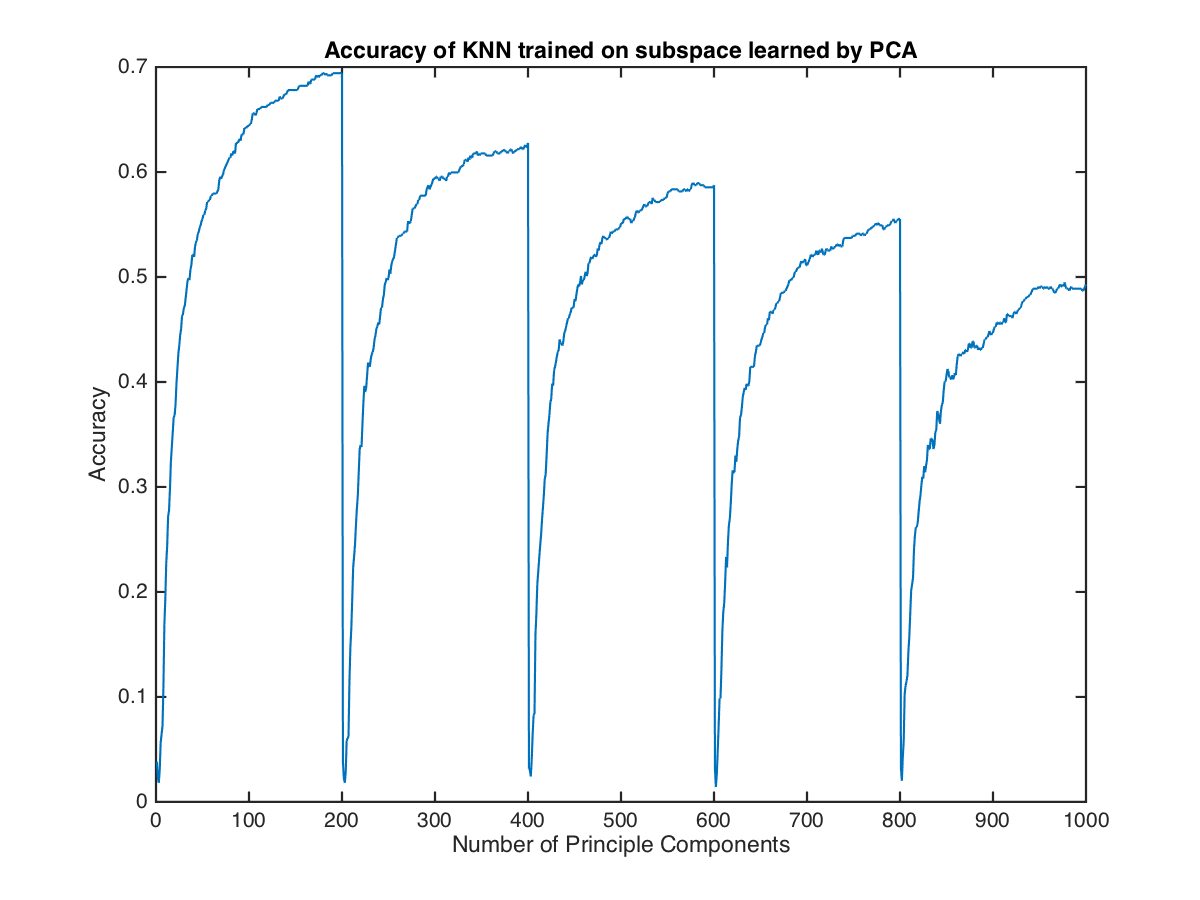
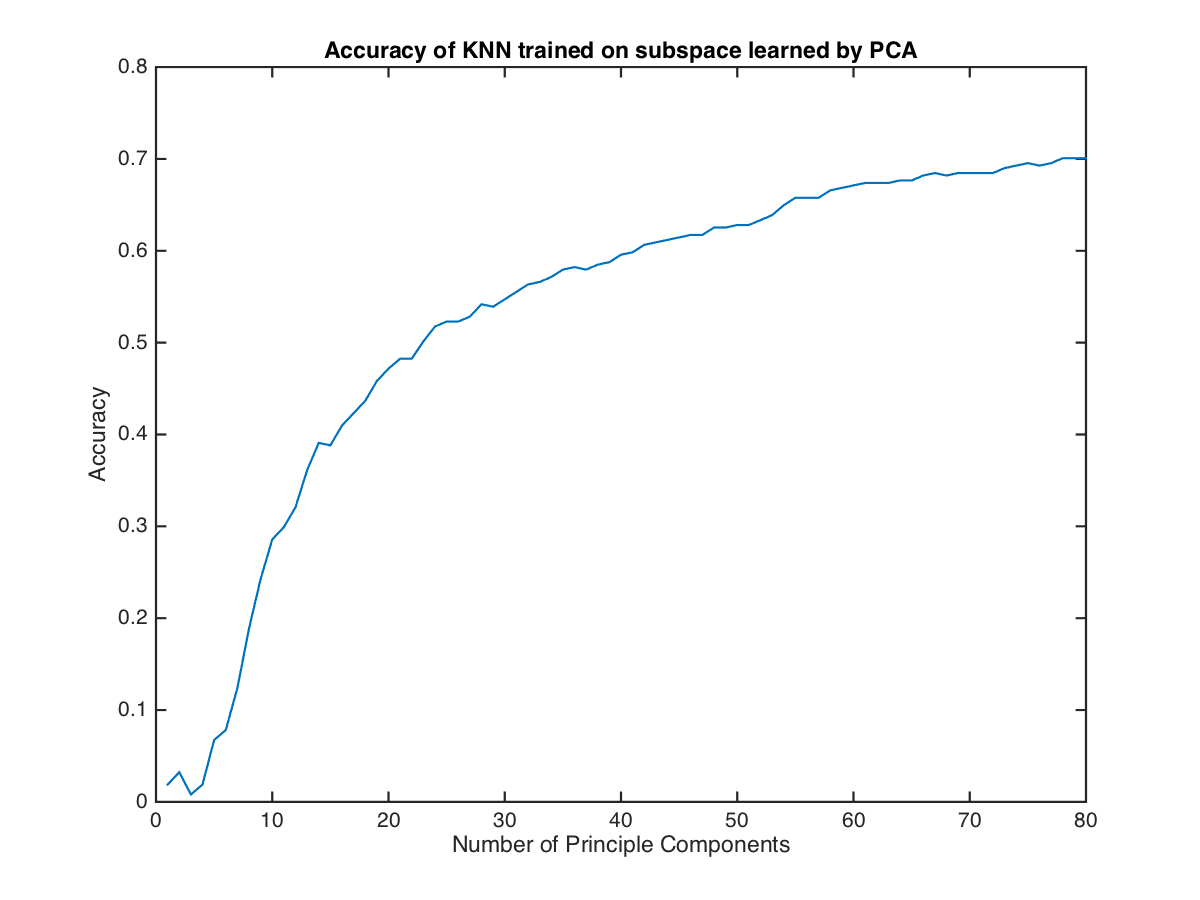
weird: ipca is getting 90% while built-inpca is getting 70%...

diff --git a/src/RUNME.m b/src/RUNME.m
@@ -31,6 +31,9 @@ testAccuracySubspaceIPCA = 0;
 bestKMSG = 0;
 bestNMSG = 0;
 testAccuracySubspaceMSG = 0;
+maxK      = 80; %VERY IMPORTANT must be significantly less than dimensionality
+%because some algorithms run in O(d*k^2) PER EXAMPLE
+
 
 
 %%make sure to change to src directory!
@@ -52,14 +55,14 @@ testAccuracySubspaceMSG = 0;
 
 %% train KNN model on data projected onto learned subspace
 display('training KNN on subspace learned by built-in pca'); %DONE
-[U_k, bestKPCA, bestNPCA, testAccuracySubspacePCA] = trainAndTestKNN(train, trainlabels, dev, devlabels, test, testlabels, @pca);
+[U_k, bestKPCA, bestNPCA, testAccuracySubspacePCA] = trainAndTestKNN(train, trainlabels, dev, devlabels, test, testlabels, maxK, @pca);
 
 
 display('training KNN on subspace learned by stochastic power method'); %DONE
-[U_k, bestKSPM, bestNSPM, testAccuracySubspaceSPM] = trainAndTestKNN(train, trainlabels, dev, devlabels, test, testlabels, @spm);
+% [U_k, bestKSPM, bestNSPM, testAccuracySubspaceSPM] = trainAndTestKNN(train, trainlabels, dev, devlabels, test, testlabels, maxK, @spm);
 
 display('training KNN on subspace learned by incremental pca'); %DONE
-[U_k, bestKIPCA, bestNIPCA, testAccuracySubspaceIPCA] = trainAndTestKNN(train, trainlabels, dev, devlabels, test, testlabels, @ipca);
+[U_k, bestKIPCA, bestNIPCA, testAccuracySubspaceIPCA] = trainAndTestKNN(train, trainlabels, dev, devlabels, test, testlabels, maxK, @ipca);
 
 display('Dr. Arora wants Stochastic MSG as well :(');
 % [U_k, bestKMSG, bestNMSG, testAccuracySubspaceMSG] = trainAndTestKNN(train, trainlabels, dev, devlabels, test, testlabels, @msg);
@@ -105,8 +108,7 @@ end
 
 
 %% train model on learned k-dimensional subspace, determine k via cross-val
-function [U, bestK, bestN] = crossVal(train, trainlabels, dev, devlabels, fcnHandle)
-    maxK      = 200; %must be significantly less than dimensionality
+function [U, bestK, bestN] = crossVal(train, trainlabels, dev, devlabels, maxK, fcnHandle)
     devAc     = [];
     bestK     = 0;
     bestAcc   = 0;
@@ -115,8 +117,13 @@ function [U, bestK, bestN] = crossVal(train, trainlabels, dev, devlabels, fcnHan
     bestN     = 3;   %actually tune this hyperparameter as well
     neighbors = 1;   %neighbors = 1:maxN:
     
-    U = fcnHandle(train'); %learn the full uncorrelated subspace via algo
-    if (size(U) ~= size(train))
+    if (isequal(fcnHandle, @pca))
+       U = fcnHandle(train'); 
+    else
+       U = fcnHandle(train', maxK); %learn the full uncorrelated subspace via algo
+    end
+    
+    if (size(U, 1) ~= size(train, 1))
         size(U)
         error('U not properly sized');
     end
@@ -177,9 +184,9 @@ function X = candN(X)
 end
 
 function [U_k, bestK, bestN, testAccuracy] = ...
-    trainAndTestKNN(train, trainlabels, dev, devlabels, test, testlabels, fcnHandle)
+    trainAndTestKNN(train, trainlabels, dev, devlabels, test, testlabels, maxK, fcnHandle)
 
-    [U_k, bestK, bestN] = crossVal(train, trainlabels, dev, devlabels, fcnHandle);
+    [U_k, bestK, bestN] = crossVal(train, trainlabels, dev, devlabels, maxK, fcnHandle);
     mdlLearned1 = fitcknn((U_k'*train)', trainlabels, 'NumNeighbors', bestN);
     [predictedLabelsTest1, ~] = predict(mdlLearned1,(U_k'*test)');
     testAccuracy = sum(predictedLabelsTest1 == testlabels')/length(predictedLabelsTest1);

diff --git a/src/msg.m b/src/msg.m
@@ -1,10 +1,10 @@
-function U = msg(X)
+function U = msg(X, k)
 
     X = X';               % to make things work
     iters = 3;            % how many times to loop over entire training set
     t = 0;                % iterate
     n = size(X, 2);       % number of examples
-    k = n;                % MUST conform to api: return a dxn matrix
+%     k = 200               % MUST conform to api: return a dxn matrix
     d = size(X, 1);       % dimensionality
     U = orth(rand(d, k)); % randomly init learned subspace, d by k
     S = diag(randn(k,1)); % C^0 = USU^T random eigendecomposition, k by k

diff --git a/src/spm.m b/src/spm.m
@@ -19,12 +19,12 @@
 
 
   
-function U = spm(X)
+function U = spm(X, k)
     X = X';               % to make things work
     iters = 3;            % how many times to loop over entire training set
     t = 0;                % iterate
     n = size(X, 2);       % number of examples
-    k = n;                % MUST conform to api: return a dxn matrix
+%     k = 200;              % MUST conform to api: return a dxn matrix
     d = size(X, 1);       % dimensionality
     U = orth(rand(d, k)); % randomly init learned subspace
     eta = 1;              % learning rate, set to what??

diff --git a/src/readYaleBPlusData.m b/src/readYaleBPlusData.m
@@ -27,6 +27,11 @@ for i = x:length(filesStruct) %first three files are "., .., and .DS_Store"
     for j = x:length(subDir)
         file = strcat(directory,'/',filesStruct(i).name,'/',subDir(j).name);
         if ~isempty(strfind(file, '.pgm')) &isempty(strfind(file, 'Ambient'))
+            axis1 = str2num(subDir(j).name(14:16));
+            axis2 = str2num(subDir(j).name(19:20));
+            if (axis1 >= 90) || (axis2 >= 110) 
+               continue
+            end
             y = rand(1);
             y = y*100;
             if y < devpercent 
